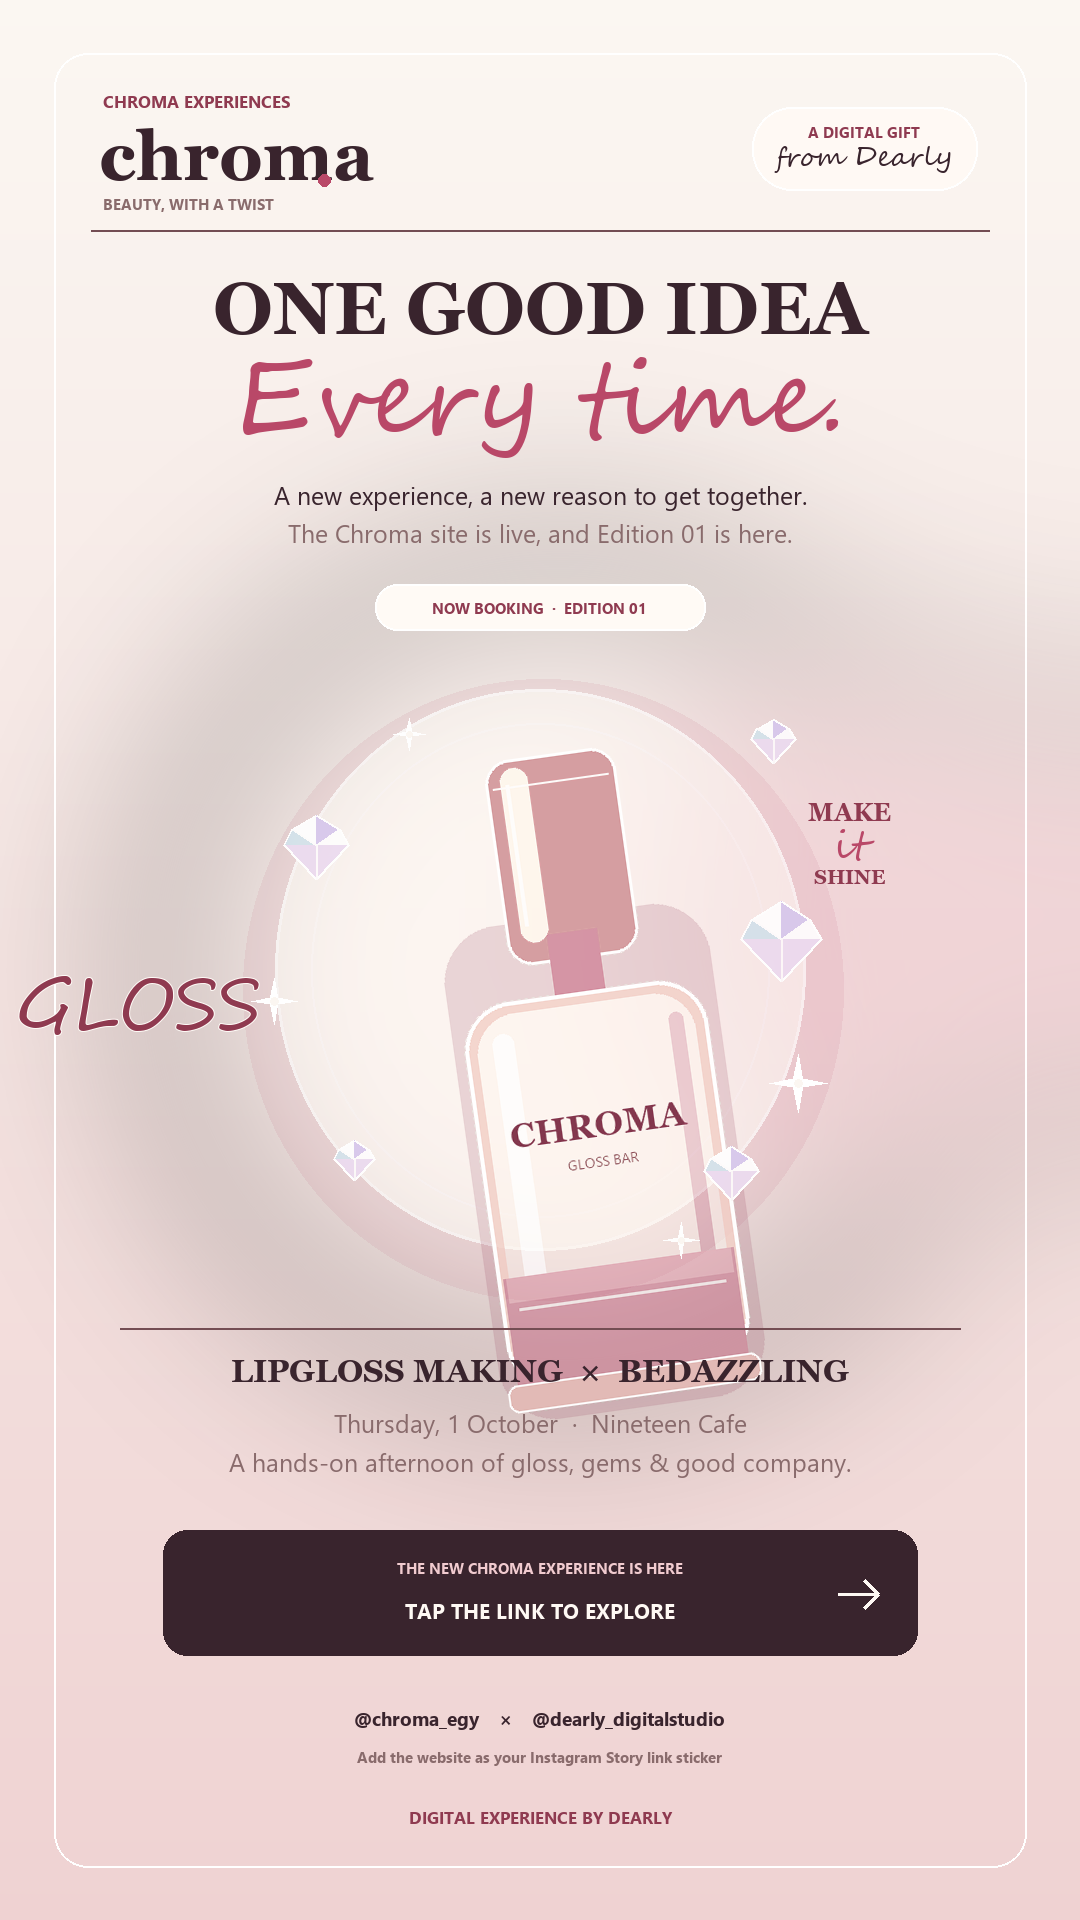
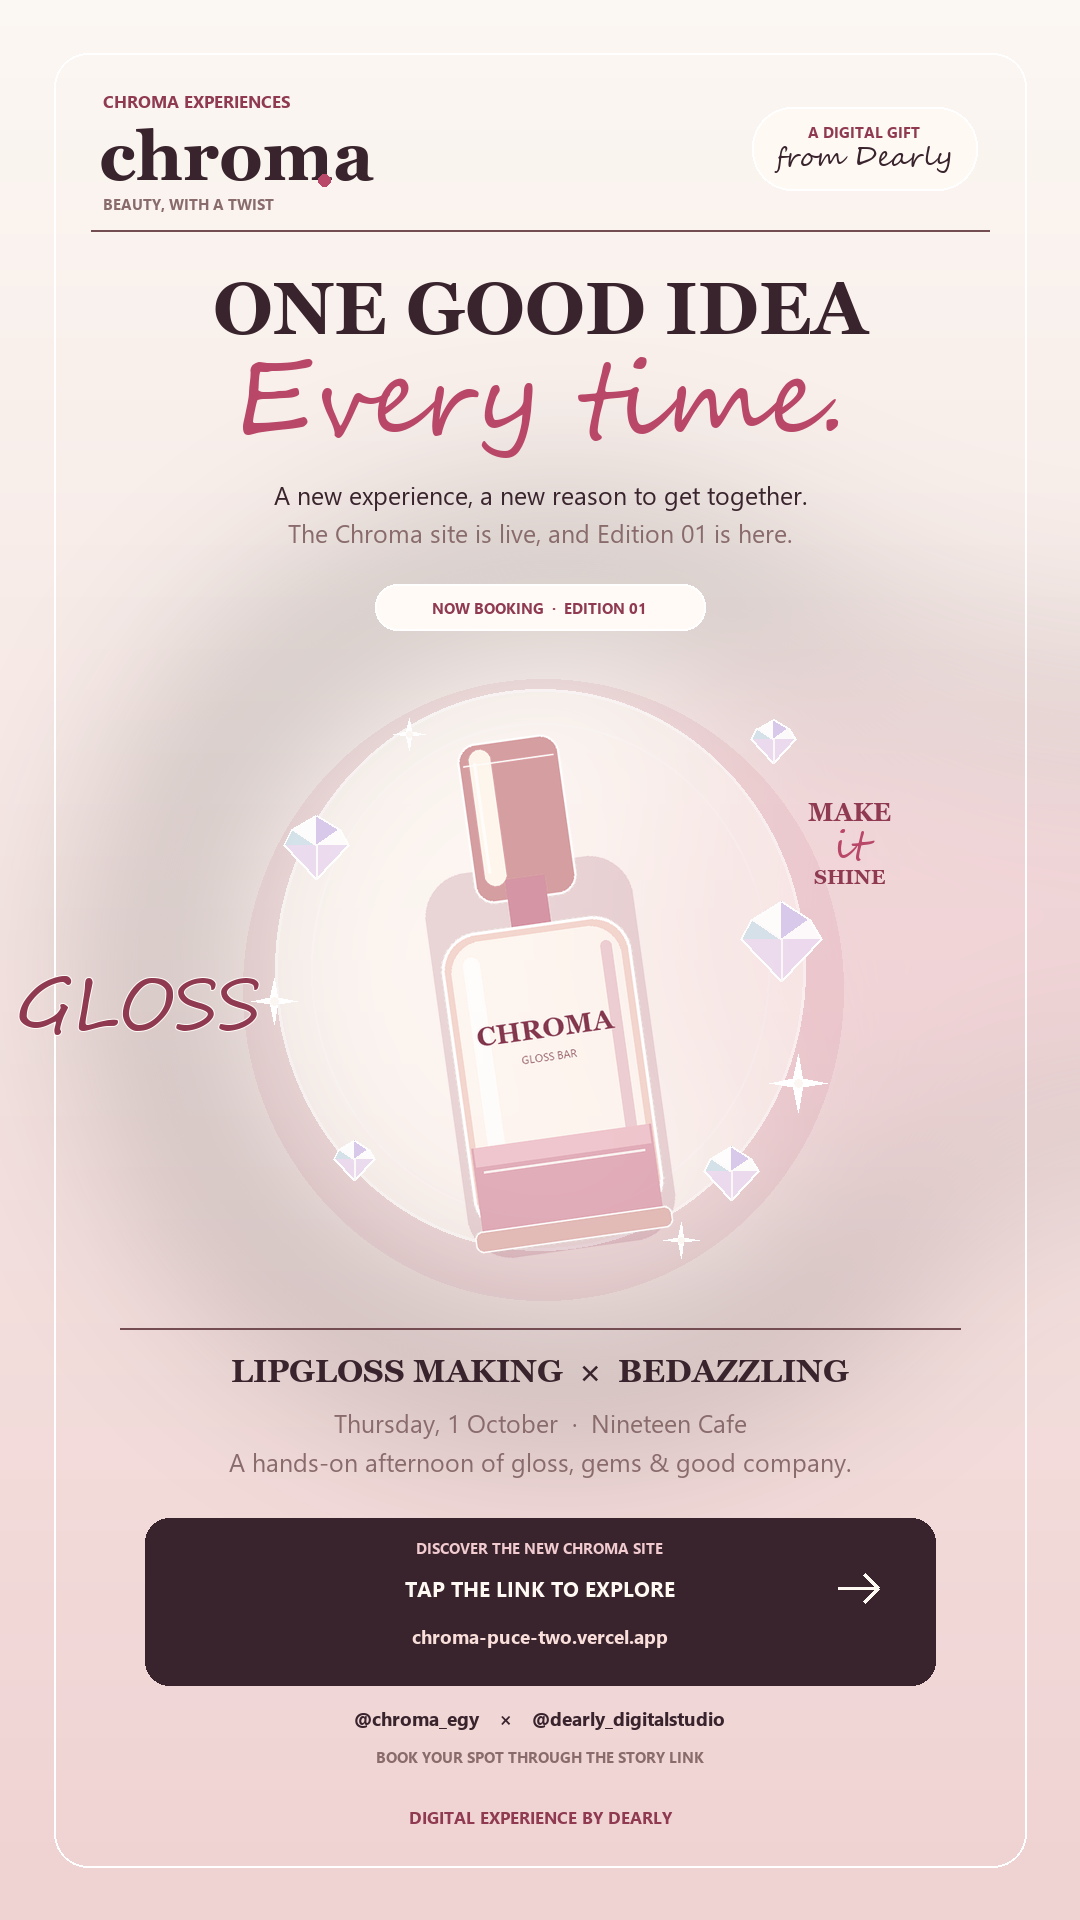
Update project

diff --git a/src/App.jsx b/src/App.jsx
@@ -244,7 +244,7 @@ function App() {
             <div className="detail-doodle" aria-hidden="true"><Sparkles size={30} /><Heart size={17} /></div>
             <h3>{inclusions[activeInclusion].title}<span>.</span></h3>
             <p>{inclusions[activeInclusion].detail}</p>
-            <div className="detail-rule"><span>MADE WITH LOVE</span><span>✳</span><span>TAKEN HOME BY YOU</span></div>
+            <div className="detail-rule"><span>MADE WITH LOVE</span><Sparkles size={12} aria-hidden="true" /><span>TAKEN HOME BY YOU</span></div>
           </div>
         </div>
       </section>
@@ -327,7 +327,6 @@ function App() {
       </section>
 
       <section className="social-section">
-        <div className="social-flower" aria-hidden="true">✳</div>
         <div className="social-copy">
           <span className="eyebrow eyebrow-dark">FOLLOW ALONG FOR THE NEXT ONE</span>
           <h2>What's next? <em>Chroma knows.</em></h2>

diff --git a/src/App.css b/src/App.css
@@ -224,7 +224,6 @@ main { overflow: hidden; }
 .frame-square { background: linear-gradient(145deg, #edd9d6, #e6c6c4); }
 
 .social-section { position: relative; display: grid; min-height: 252px; grid-template-columns: 1fr 1fr; align-items: center; gap: 7%; padding: 48px 12.5%; overflow: hidden; background: #edc8c8; }
-.social-flower { position: absolute; top: -66px; left: -31px; color: rgba(255, 248, 240, .24); font-size: 220px; line-height: 1; }
 .social-copy, .social-links { position: relative; z-index: 1; }
 .social-copy h2 { margin: 13px 0 8px; font-size: 39px; }
 .social-copy > p { color: #775e62; font-size: 10px; }

diff --git a/scripts/create_chroma_story.py b/scripts/create_chroma_story.py
@@ -6,6 +6,7 @@ ROOT = Path(__file__).resolve().parents[1]
 OUTPUT = ROOT / 'public' / 'chroma-experience-story.png'
 WIDTH, HEIGHT = 1080, 1920
 FONT_DIR = Path('C:/Windows/Fonts')
+SITE_URL = 'https://chroma-puce-two.vercel.app/'
 
 INK = (57, 36, 45)
 ROSE = (185, 72, 104)
@@ -138,7 +139,8 @@ def build_story():
     art_draw.ellipse((311, 723, 769, 1217), outline=(255, 255, 255, 115), width=2)
 
     bottle = draw_gloss()
-    art.alpha_composite(bottle, (326, 672))
+    bottle = bottle.resize((round(bottle.width * 0.78), round(bottle.height * 0.78)), Image.Resampling.LANCZOS)
+    art.alpha_composite(bottle, (333, 675))
 
     gem(art_draw, (316, 847), 32)
     gem(art_draw, (781, 941), 40)
@@ -162,14 +164,15 @@ def build_story():
     centered(draw, 1414, 'Thursday, 1 October  ·  Nineteen Cafe', body, MUTED)
     centered(draw, 1453, 'A hands-on afternoon of gloss, gems & good company.', body, MUTED)
 
-    draw.rounded_rectangle((163, 1530, 917, 1655), radius=24, fill=INK)
-    draw.text((540, 1567), 'THE NEW CHROMA EXPERIENCE IS HERE', font=small, fill=(241, 203, 207), anchor='mm')
-    draw.text((540, 1610), 'TAP THE LINK TO EXPLORE', font=cta_font, fill=(255, 249, 244), anchor='mm')
-    draw.line((838, 1594, 878, 1594), fill=(255, 249, 244), width=3)
-    draw.line((864, 1580, 878, 1594, 864, 1608), fill=(255, 249, 244), width=3, joint='curve')
+    draw.rounded_rectangle((145, 1518, 935, 1685), radius=24, fill=INK)
+    draw.text((540, 1547), 'DISCOVER THE NEW CHROMA SITE', font=small, fill=(241, 203, 207), anchor='mm')
+    draw.text((540, 1588), 'TAP THE LINK TO EXPLORE', font=cta_font, fill=(255, 249, 244), anchor='mm')
+    draw.line((838, 1588, 878, 1588), fill=(255, 249, 244), width=3)
+    draw.line((864, 1574, 878, 1588, 864, 1602), fill=(255, 249, 244), width=3, joint='curve')
+    draw.text((540, 1636), SITE_URL.removeprefix('https://').rstrip('/'), font=font('segoeuib.ttf', 19), fill=(249, 222, 218), anchor='mm')
 
     centered(draw, 1712, '@chroma_egy    ×    @dearly_digitalstudio', body_bold, INK)
-    centered(draw, 1752, 'Add the website as your Instagram Story link sticker', small, MUTED)
+    centered(draw, 1752, 'BOOK YOUR SPOT THROUGH THE STORY LINK', small, MUTED)
     centered(draw, 1812, 'DIGITAL EXPERIENCE BY DEARLY', tiny, ROSE_DARK)
 
     image.convert('RGB').save(OUTPUT, format='PNG', optimize=True)
